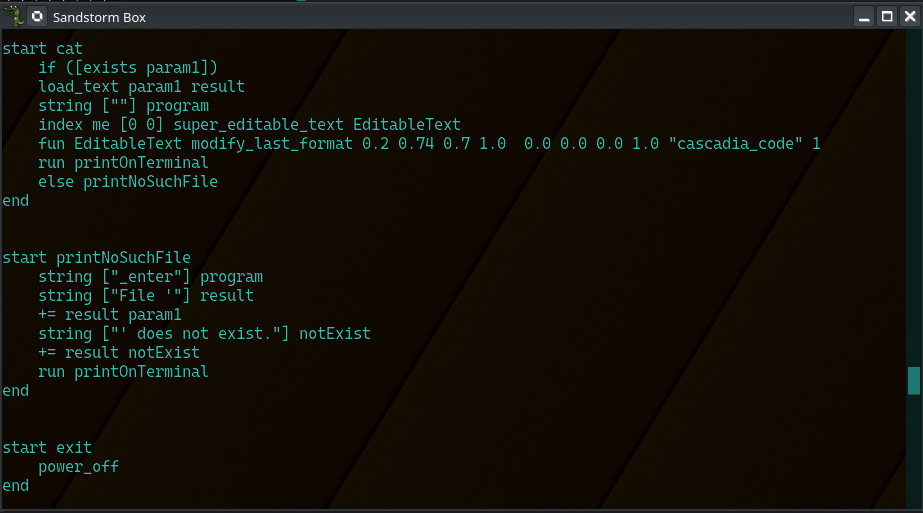
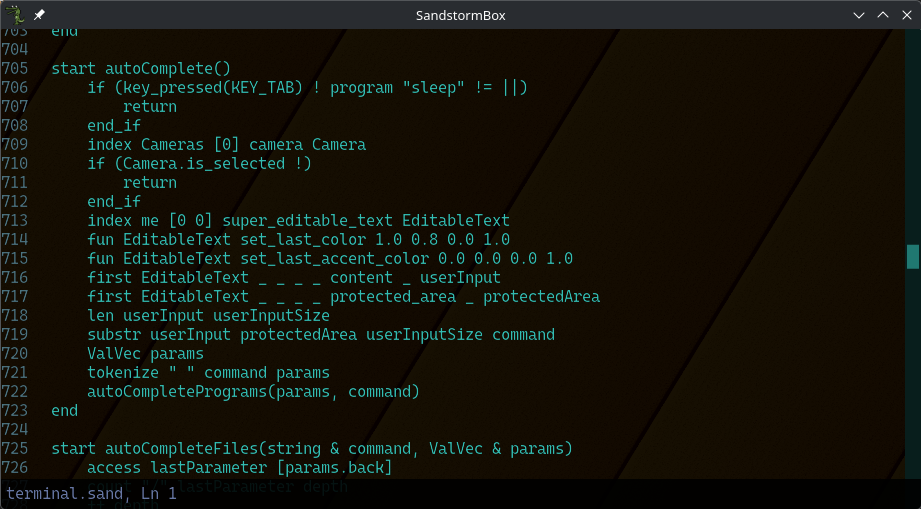
Fix rebuilding events with bind and build

diff --git a/src/compiler.h b/src/compiler.h
@@ -9,14 +9,14 @@ vector<string> mergeStringSections(const vector<string> & input);
 void removeStringDuplicatesFromVector(vector<string> & stringVec);
 /*Translate instructions into events and add them to the event container of the object.*/
 ReturnType assembleEvents(vector<EventModule> & eventContainer, vector<string> & eventContainerIds,
-    size_t layerIndex, const string & layerId, size_t objectIndex, string & objectId,
+    size_t layerIndex, const string & layerId, size_t objectIndex, const string & objectId,
     vector<string> & code, const string & scriptName, vector<VariableLocationStruct> & GlobalScope,
     unsigned & topMemoryAddress, size_t & topModuleUniqueIndex
 );
 std::pair<ReturnType, bool> compile(const string & exePath, const vector<string> & bindedScripts,
     bool allowNotAscii, vector<EventModule> &eventContainer, vector<string> &eventContainerIds,
     vector<VariableLocationStruct> & globalScope, unsigned & topMemoryAddress,
-    size_t layerIndex, const string & layerId, size_t objectIndex, string & objectId,
+    size_t layerIndex, const string & layerId, size_t objectIndex, const string & objectId,
     size_t & topModuleUniqueIndex
 );
 

diff --git a/src/compiler.cpp b/src/compiler.cpp
@@ -745,7 +745,7 @@ vector<string> mergeStringSectionsAndUseSpecialSigns(const vector<string> & inpu
 }
 
 ReturnType assembleEvents(vector<EventModule> & eventContainer, vector<string> & eventContainerIds,
-    size_t layerIndex, const string & layerId, size_t objectIndex, string & objectId,
+    size_t layerIndex, const string & layerId, size_t objectIndex, const string & objectId,
     vector<string> & code, const string & scriptName, vector<VariableLocationStruct> & GlobalScope,
     unsigned & topMemoryAddress, size_t & topModuleUniqueIndex
 ){
@@ -930,7 +930,7 @@ inline void printEmptyFileWarning(string scriptName, string functionName){
 std::pair<ReturnType, bool> compile(const string & exePath, const vector<string> & bindedScripts,
     bool allowNotAscii, vector<EventModule> &eventContainer, vector<string> &eventContainerIds,
     vector<VariableLocationStruct> & globalScope, unsigned & topMemoryAddress,
-    size_t layerIndex, const string & layerId, size_t objectIndex, string & objectId,
+    size_t layerIndex, const string & layerId, size_t objectIndex, const string & objectId,
     size_t & topModuleUniqueIndex
 ){
     vector<string> allScriptsToAssemble;

diff --git a/src/processClass.cpp b/src/processClass.cpp
@@ -17870,6 +17870,10 @@ void ObjectMemoryStruct::clear(){
         Context.clear();
     }
     MemoryMap.clear();
+    DynamicMemory.clear();
+    MemberVarsScope.clear();
+    topAddress = 0;
+    topFreeDynamicAddress = 0;
 }
 
 void EventCallStateStruct::clear(){
